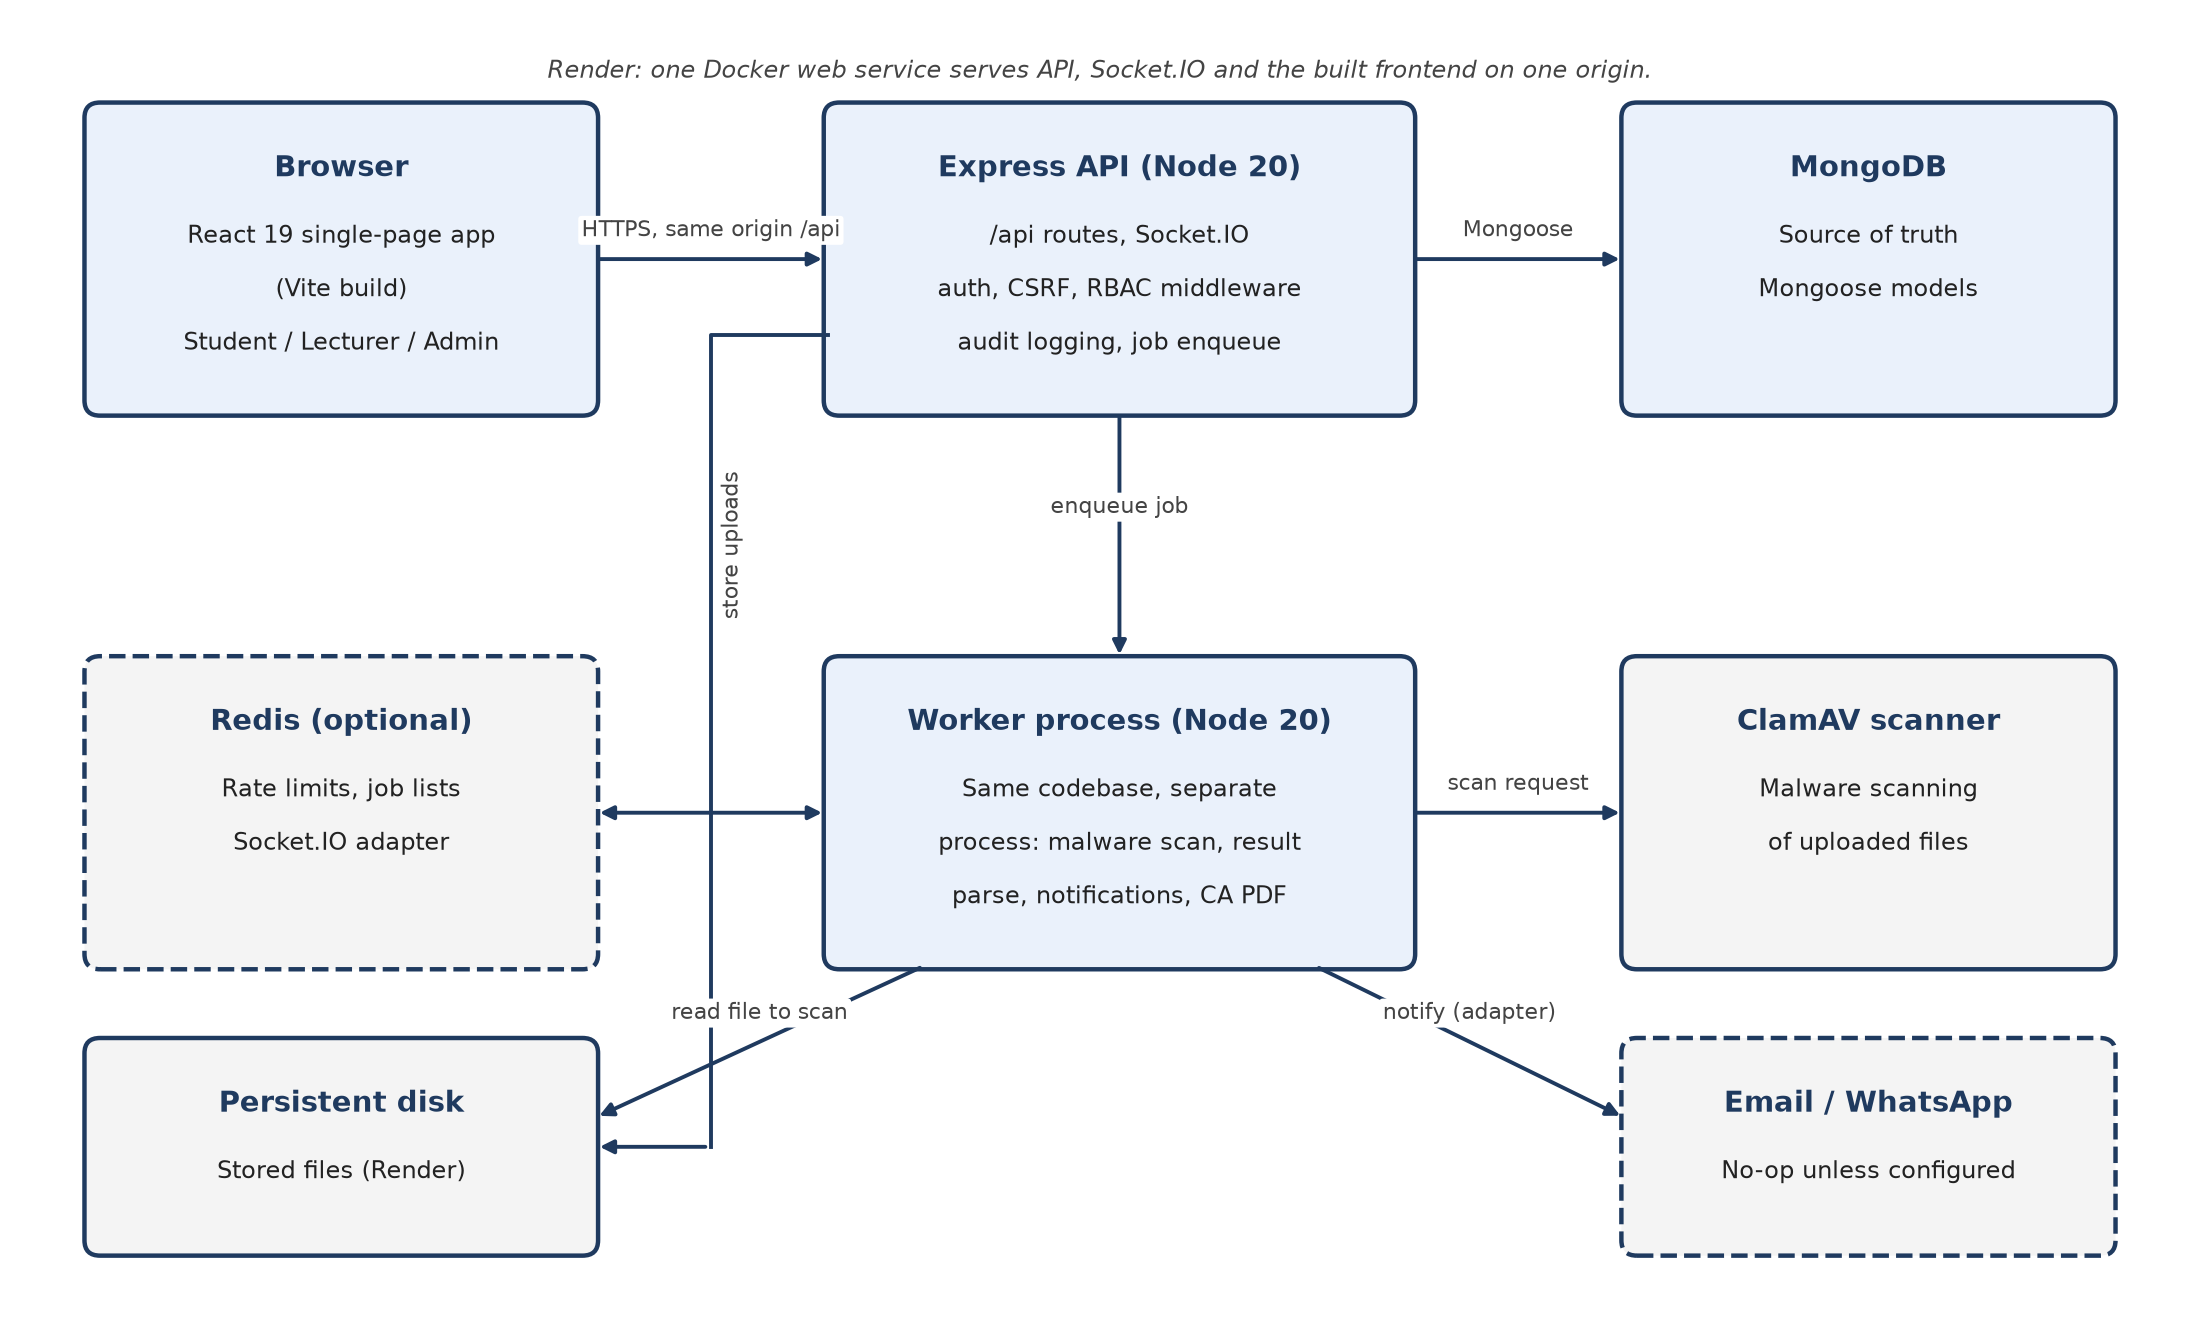
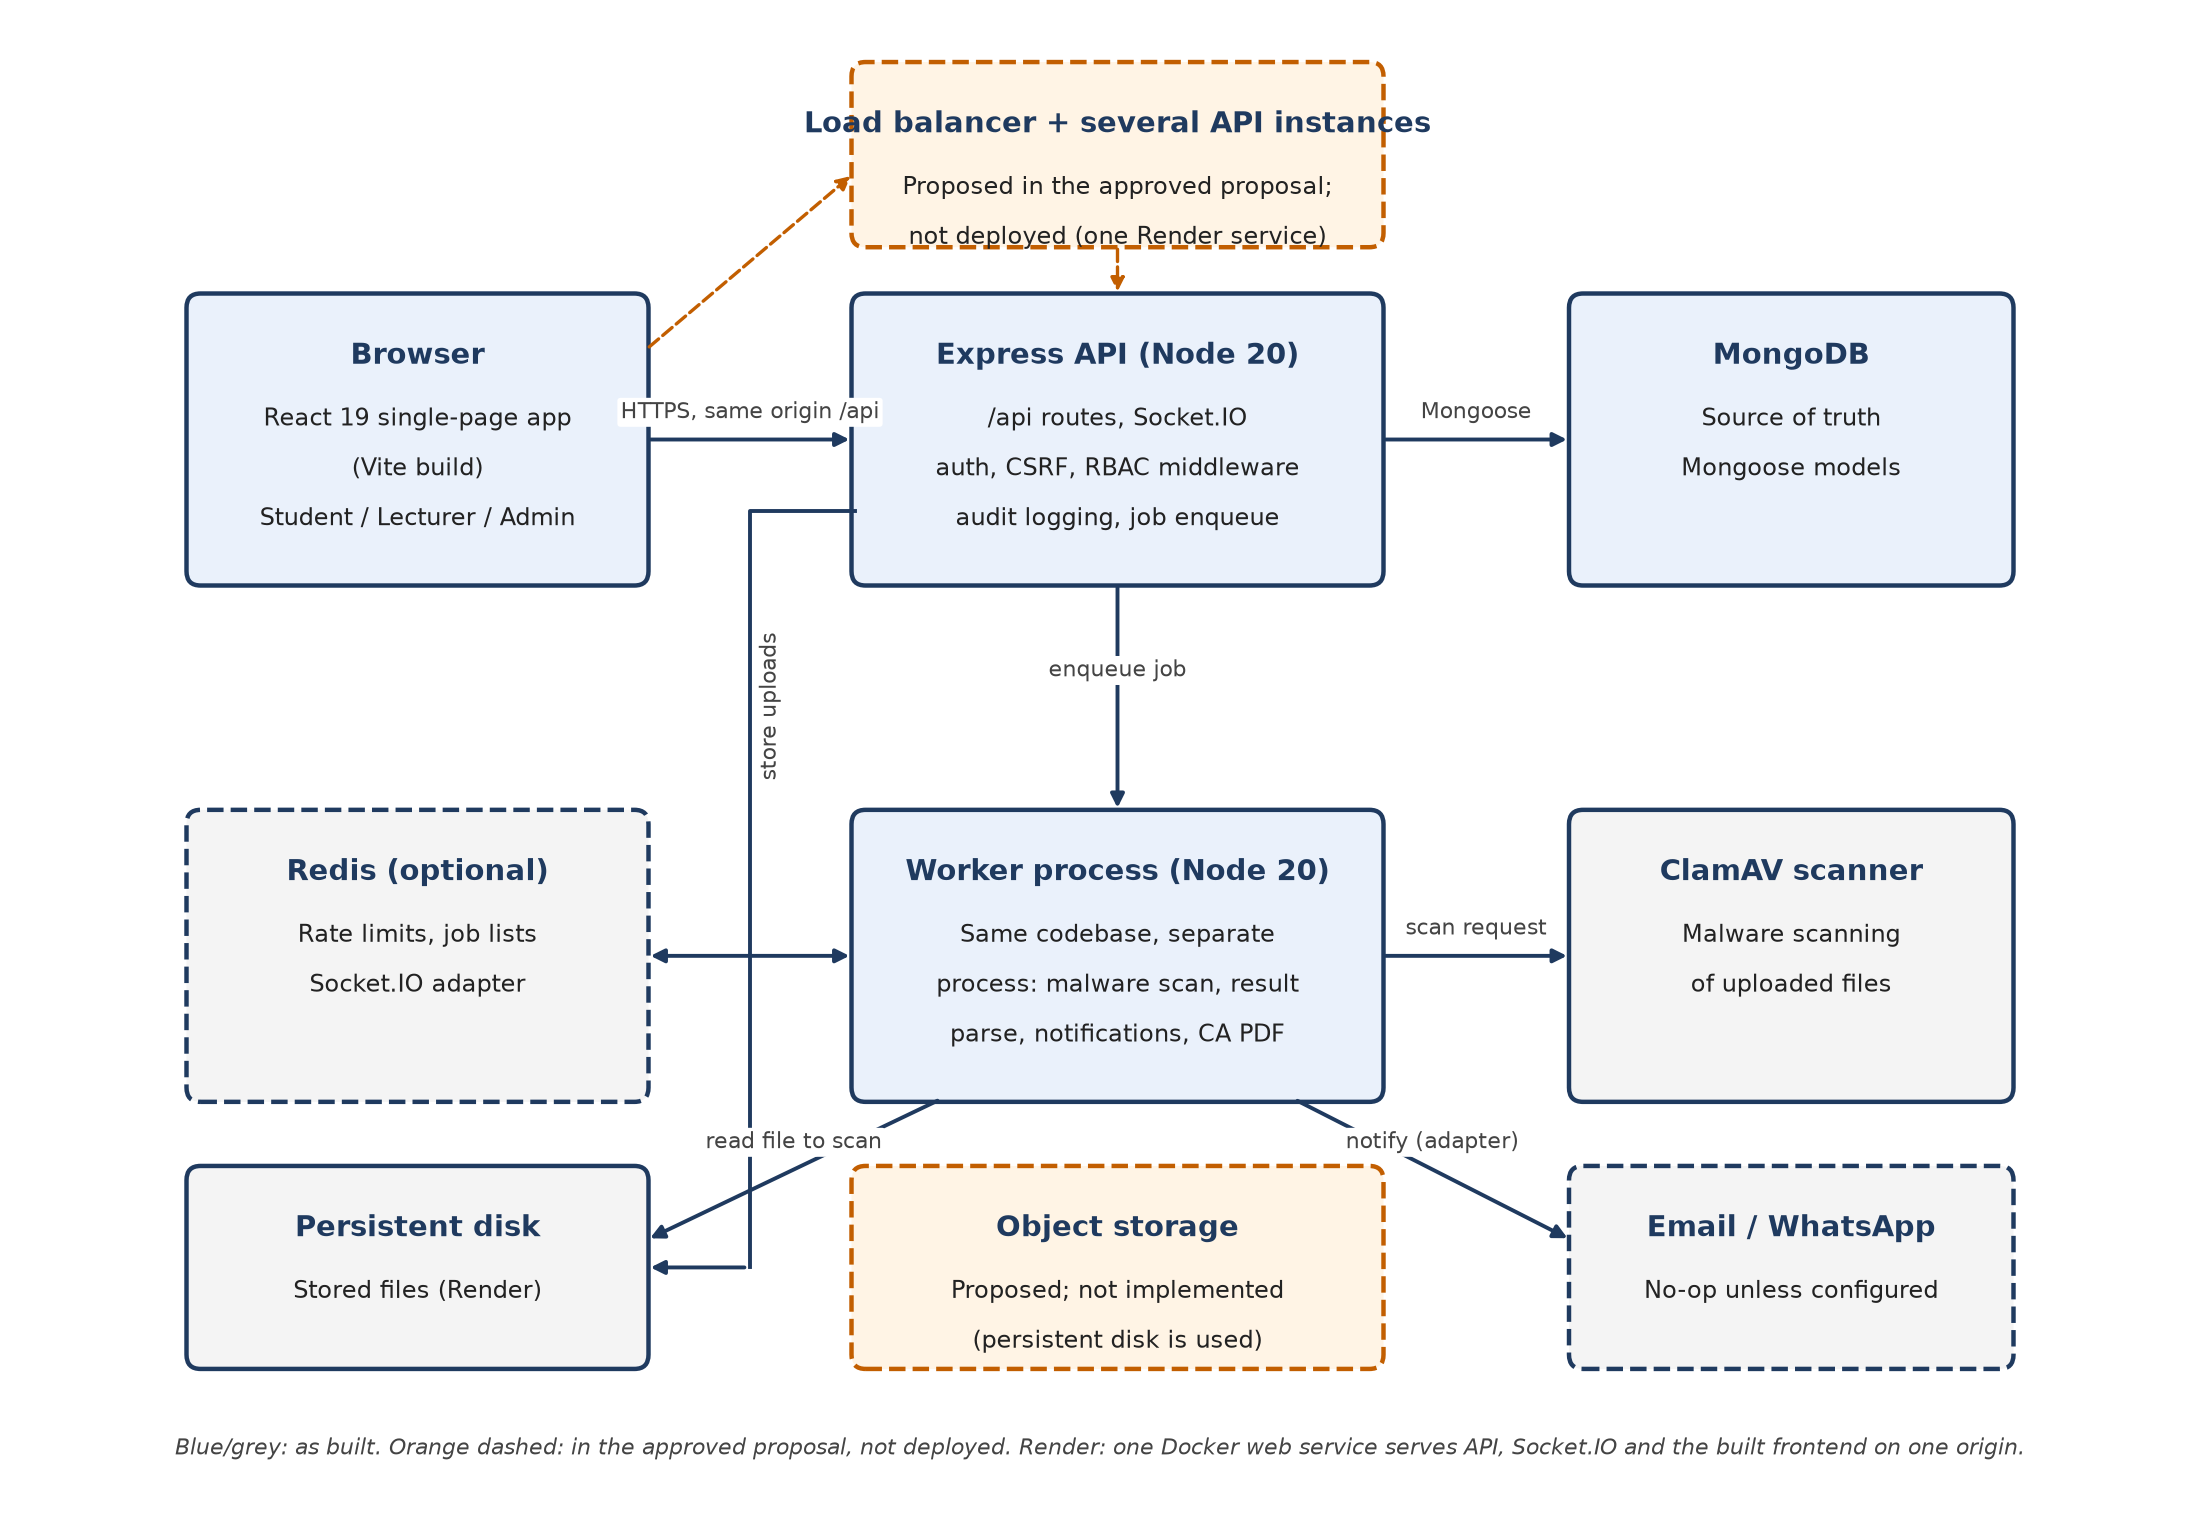
Align architecture and ER diagrams with the approved proposal
Add proposal-only load balancer and object storage to the architecture
diagram, and add notice, calendar, notification, CA and shared-file
entities to the ER diagram in the README and images.

diff --git a/README.md b/README.md
@@ -36,7 +36,12 @@ flowchart LR
   AV["ClamAV scanner"]
   FS[("Persistent disk<br/>stored files")]
   N["Email / WhatsApp adapters<br/>no-op unless configured"]
+  LB["Load balancer + several API instances<br/>(proposal only, not deployed)"]
+  OS[("Object storage<br/>(proposal only, not implemented)")]
   B -- "HTTPS, same origin /api" --> API
+  B -.-> LB
+  LB -.-> API
+  OS -.-> FS
   API -- Mongoose --> DB
   API -. optional .-> R
   API -- enqueue job --> W
@@ -67,6 +72,15 @@ erDiagram
   SUBJECT_OFFERING ||--o{ LECTURER_ASSIGNMENT : assigned
   USER ||--o{ LECTURER_ASSIGNMENT : lecturer
   USER ||--o{ ACADEMIC_RESULT : student
+  USER ||--o{ INCOMPLETE_CA : student
+  USER ||--o{ CA_APPLICATION : student
+  USER ||--o{ NOTIFICATION : recipient
+  USER ||--o{ NOTICE : publisher
+  USER ||--o{ CALENDAR_EVENT : creator
+  ACADEMIC_RESULT ||--o{ INCOMPLETE_CA : raises
+  SUBJECT_OFFERING ||--o{ CALENDAR_EVENT : optional
+  BATCH ||--o{ SHARED_FOLDER : has
+  SHARED_FOLDER ||--o{ SHARED_RESOURCE : holds
   BATCH ||--o{ CONVERSATION : batch_chat
   CONVERSATION ||--o{ MESSAGE : holds
   USER ||--o{ MESSAGE : sender
@@ -131,6 +145,37 @@ erDiagram
     ObjectId departmentId FK
     ObjectId batchId FK
     string currentKeyVersion
+  }
+  INCOMPLETE_CA {
+    ObjectId studentUserId FK
+    ObjectId subjectId FK
+    ObjectId academicResultId FK
+  }
+  CA_APPLICATION {
+    ObjectId studentUserId FK
+    ObjectId windowId FK
+    ObjectId pdfFileId FK
+  }
+  CALENDAR_EVENT {
+    ObjectId createdByUserId FK
+    ObjectId departmentId FK
+    ObjectId batchId FK
+  }
+  NOTICE {
+    ObjectId departmentId FK
+    ObjectId publisherUserId FK
+  }
+  NOTIFICATION {
+    ObjectId recipientUserId FK
+    ObjectId departmentId FK
+  }
+  SHARED_FOLDER {
+    ObjectId batchId FK
+    ObjectId createdByUserId FK
+  }
+  SHARED_RESOURCE {
+    ObjectId folderId FK
+    ObjectId fileId FK
   }
   MESSAGE {
     ObjectId conversationId FK
